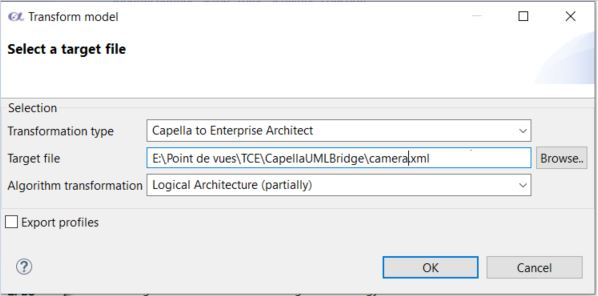
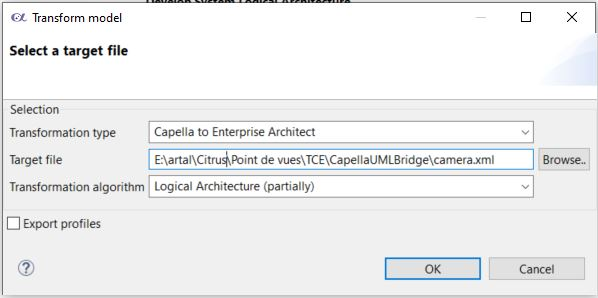
change Algorithm Transformation to Transformation algorithm + update screeshot of the documentation

diff --git a/Plugins/com.artal.capella.mapping/src/com/artal/capella/mapping/ui/CapellaMappingDialog.java b/Plugins/com.artal.capella.mapping/src/com/artal/capella/mapping/ui/CapellaMappingDialog.java
@@ -197,7 +197,7 @@ public class CapellaMappingDialog extends TitleAreaDialog {
 	public ComboViewer createMixCombo(Group selectGroup) {
 		Label mixLabel = new Label(selectGroup, SWT.NONE);
 		mixLabel.setLayoutData(new GridData(GridData.FILL_HORIZONTAL));
-		mixLabel.setText("Algorithm transformation");
+		mixLabel.setText("Transformation algorithm");
 
 		ComboViewer combo = new ComboViewer(selectGroup, SWT.NONE);
 		combo.getCombo().setLayoutData(new GridData(GridData.FILL_HORIZONTAL));
